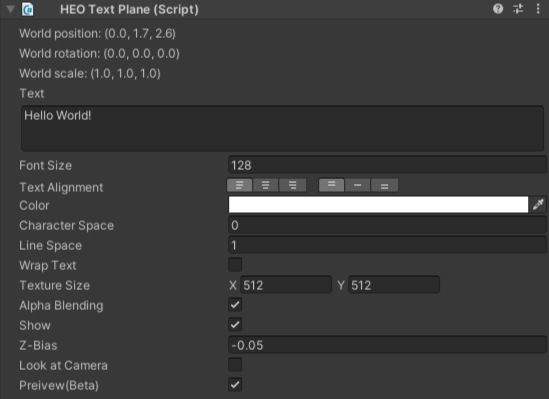
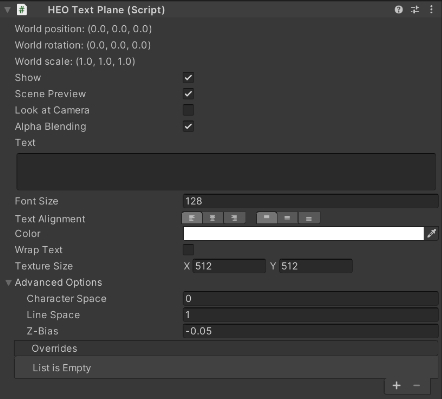
画像差し替え及びOverridesの追記

diff --git a/docs/HEOComponents/HEOTextPlane.en.md b/docs/HEOComponents/HEOTextPlane.en.md
@@ -14,19 +14,24 @@ For example, by Build & Running the world the text will be displayed as below:
 | World Position | Same value as Transform's Position value | Set the position for displaying text |
 | World Rotation | Same value as Transform's Rotation value | Set the rotation for displaying text |
 | World Scale |  | Same value as Transform's Scale value | Set the scale for displaying text |
+| Show | true | Enable this if you want the text to display by default |
+| Scene Preview | true | Enable/Disable text preview in the Unity editor's Scenet view.<br> This setting is a beta feature | 
+| Look at Camera | false |  Make the text face towards the camera at all times |
+| Alpha Blending | true | Lets you use cutout/transparency |
 | Text | blank | Input the text to be displayed |
 | Font Size | 128 |  Specify the text size |
 | Text Alignment | Left Top | Set the text alignment and centering for display |
 | Color | #FFFFFF | Specify the text color |
-| Character Space | 0.0| Set the character space by pixel |
-| Line Space | 1.0 | Set the line space by pixel |
 | Wrap Text | false | Enable/Disable automatic text wrapping |
 | Texture Size | X:512 Y:512 | Specify the base resolution for the displayed text texture <br> **Value needs to be a power of two!** |
-| alphablending | true | Lets you use cutout/transparency |
-| show | true | Enable this if you want the text to display by default |
-| zbias | -0.05 | Higher z value will make the text drawn in front of other objects |
-| Look at Camera | false |  Make the text face towards the camera at all times |
-| preview | true | Enable/Disable text preview in the Unity editor's Scenet view.<br> This setting is a beta feature | 
+| Character Space | 0.0| Set the character space by pixel |
+| Line Space | 1.0 | Set the line space by pixel |
+| Z-Bias | -0.05 | Higher z value will make the text drawn in front of other objects |
+| Overrides | | On Entering the world, the text set in this `text` property will be used instead Text in HEOTextPlane. |
+
+!!! note caution
+    The Overrides property is currently under progress.<br>
+    Further usage are to be added by future updates.
 
 By enabling preview, the designated text will be shown in the Scene view as below:
 
